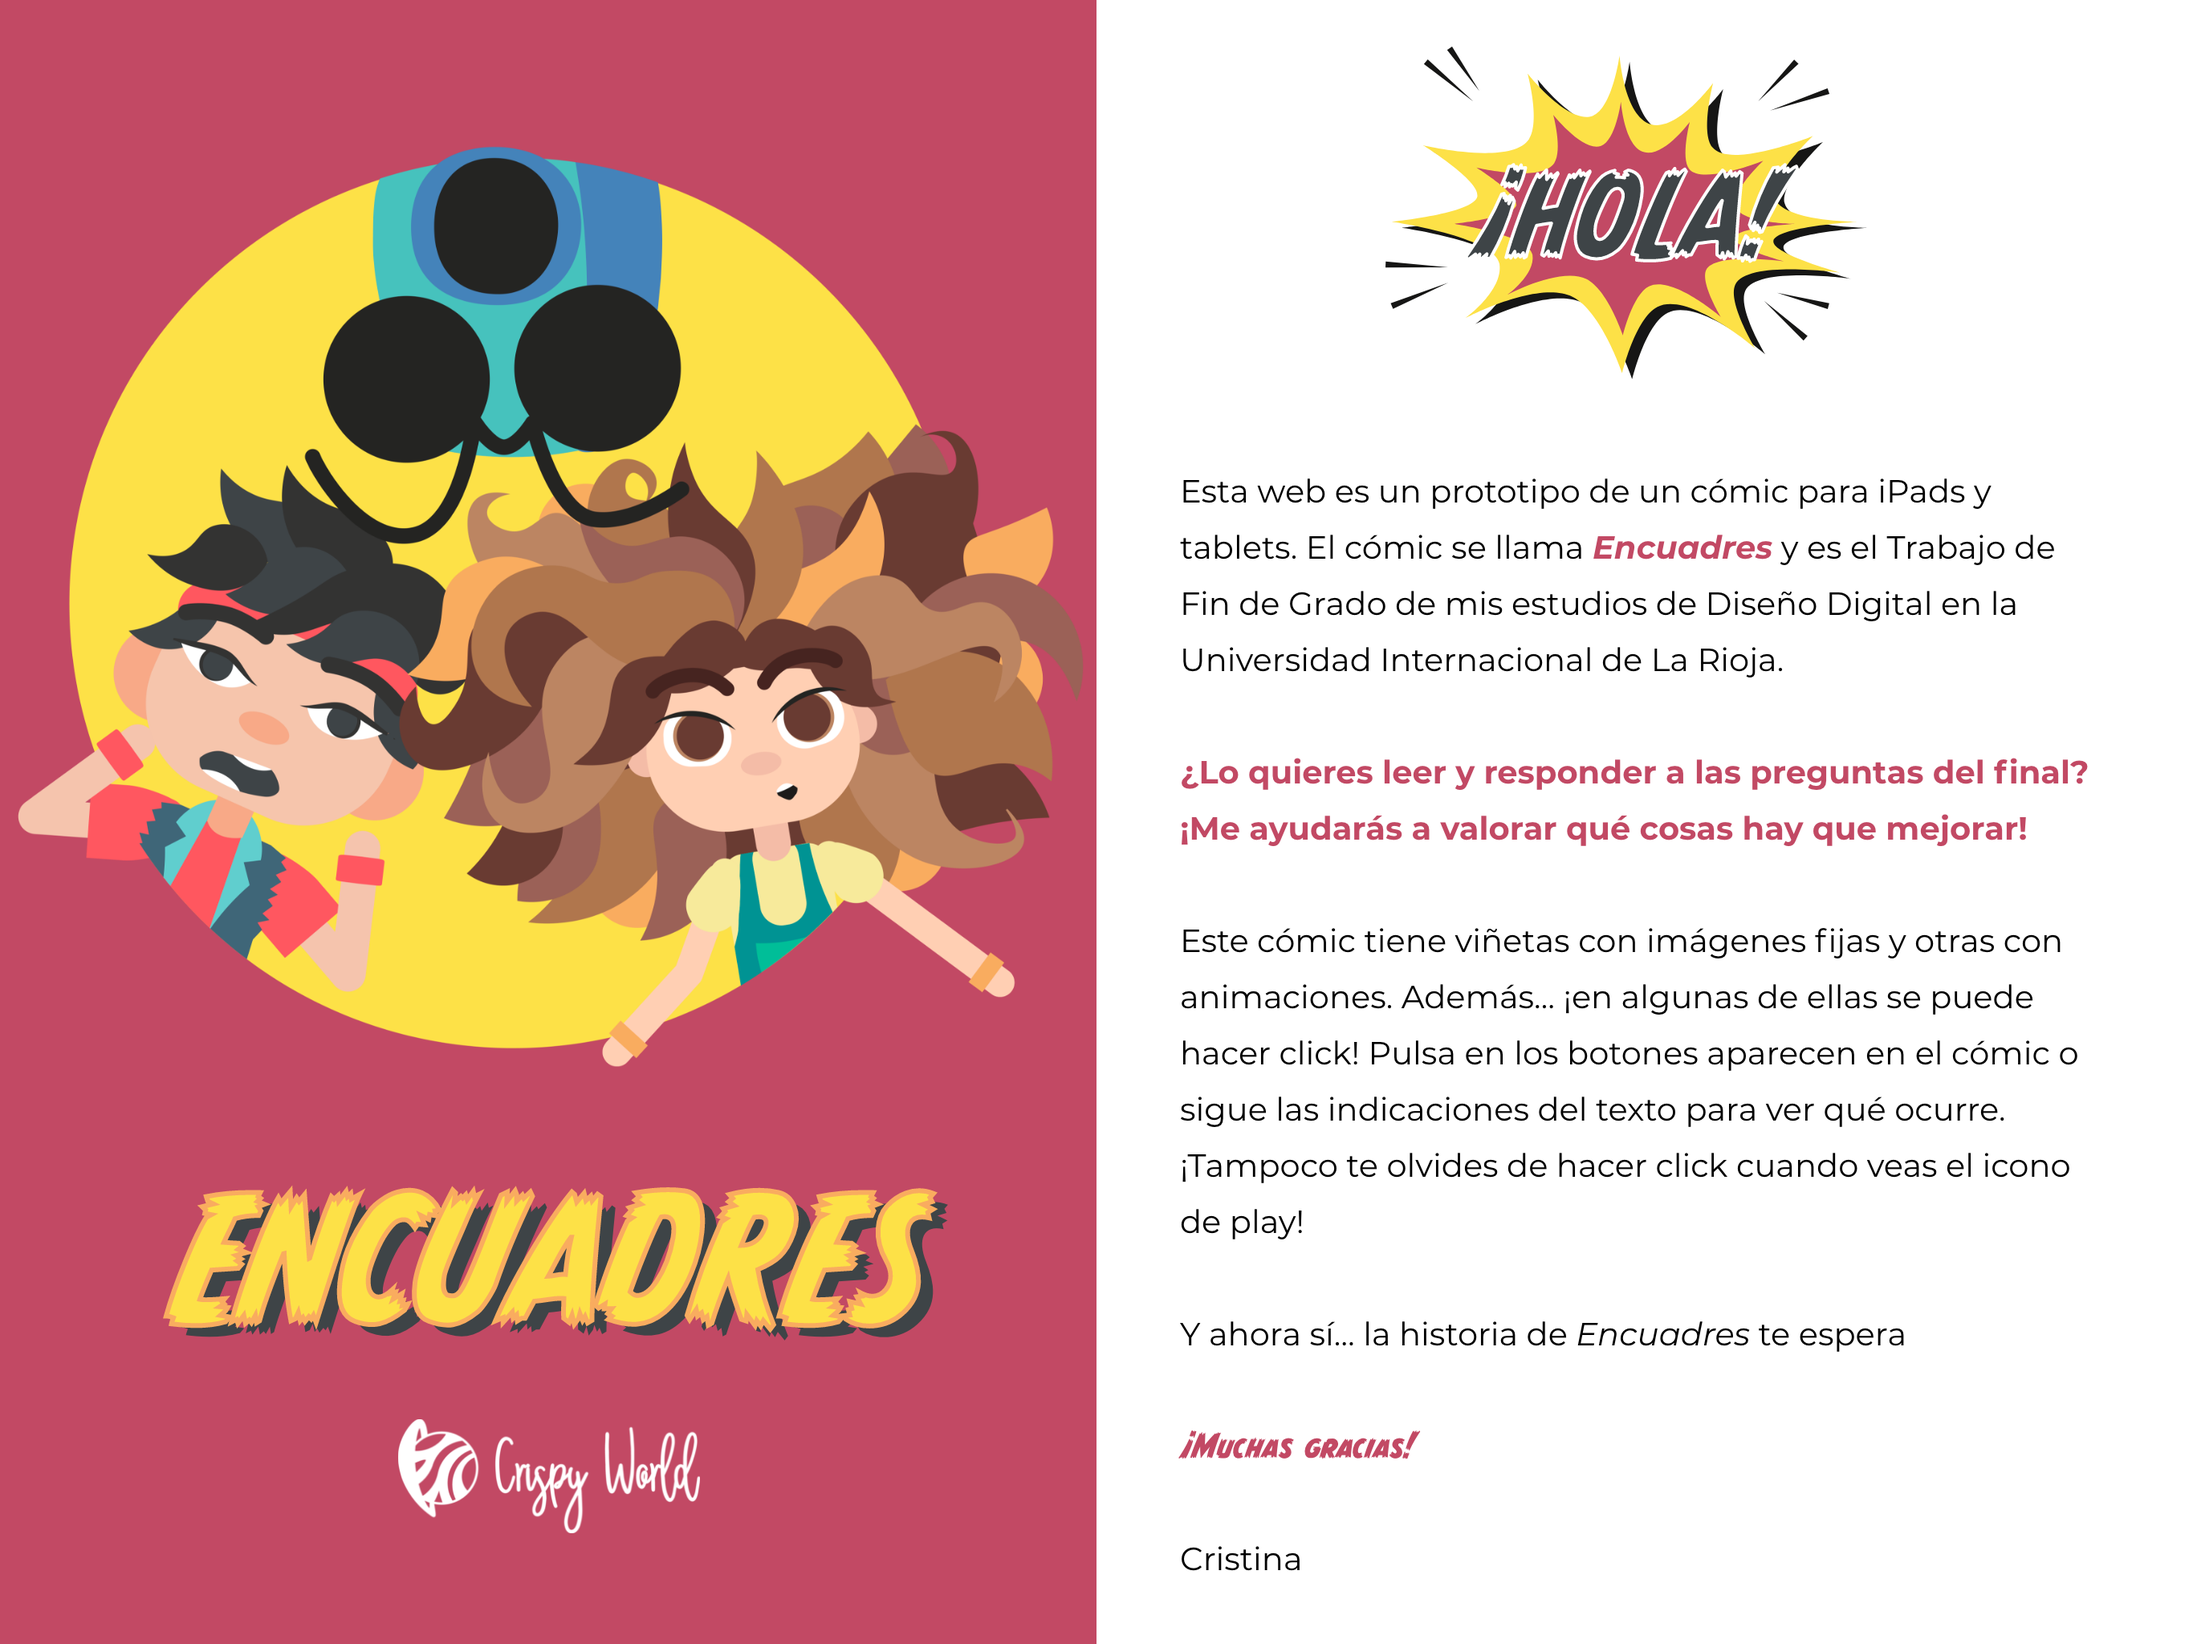
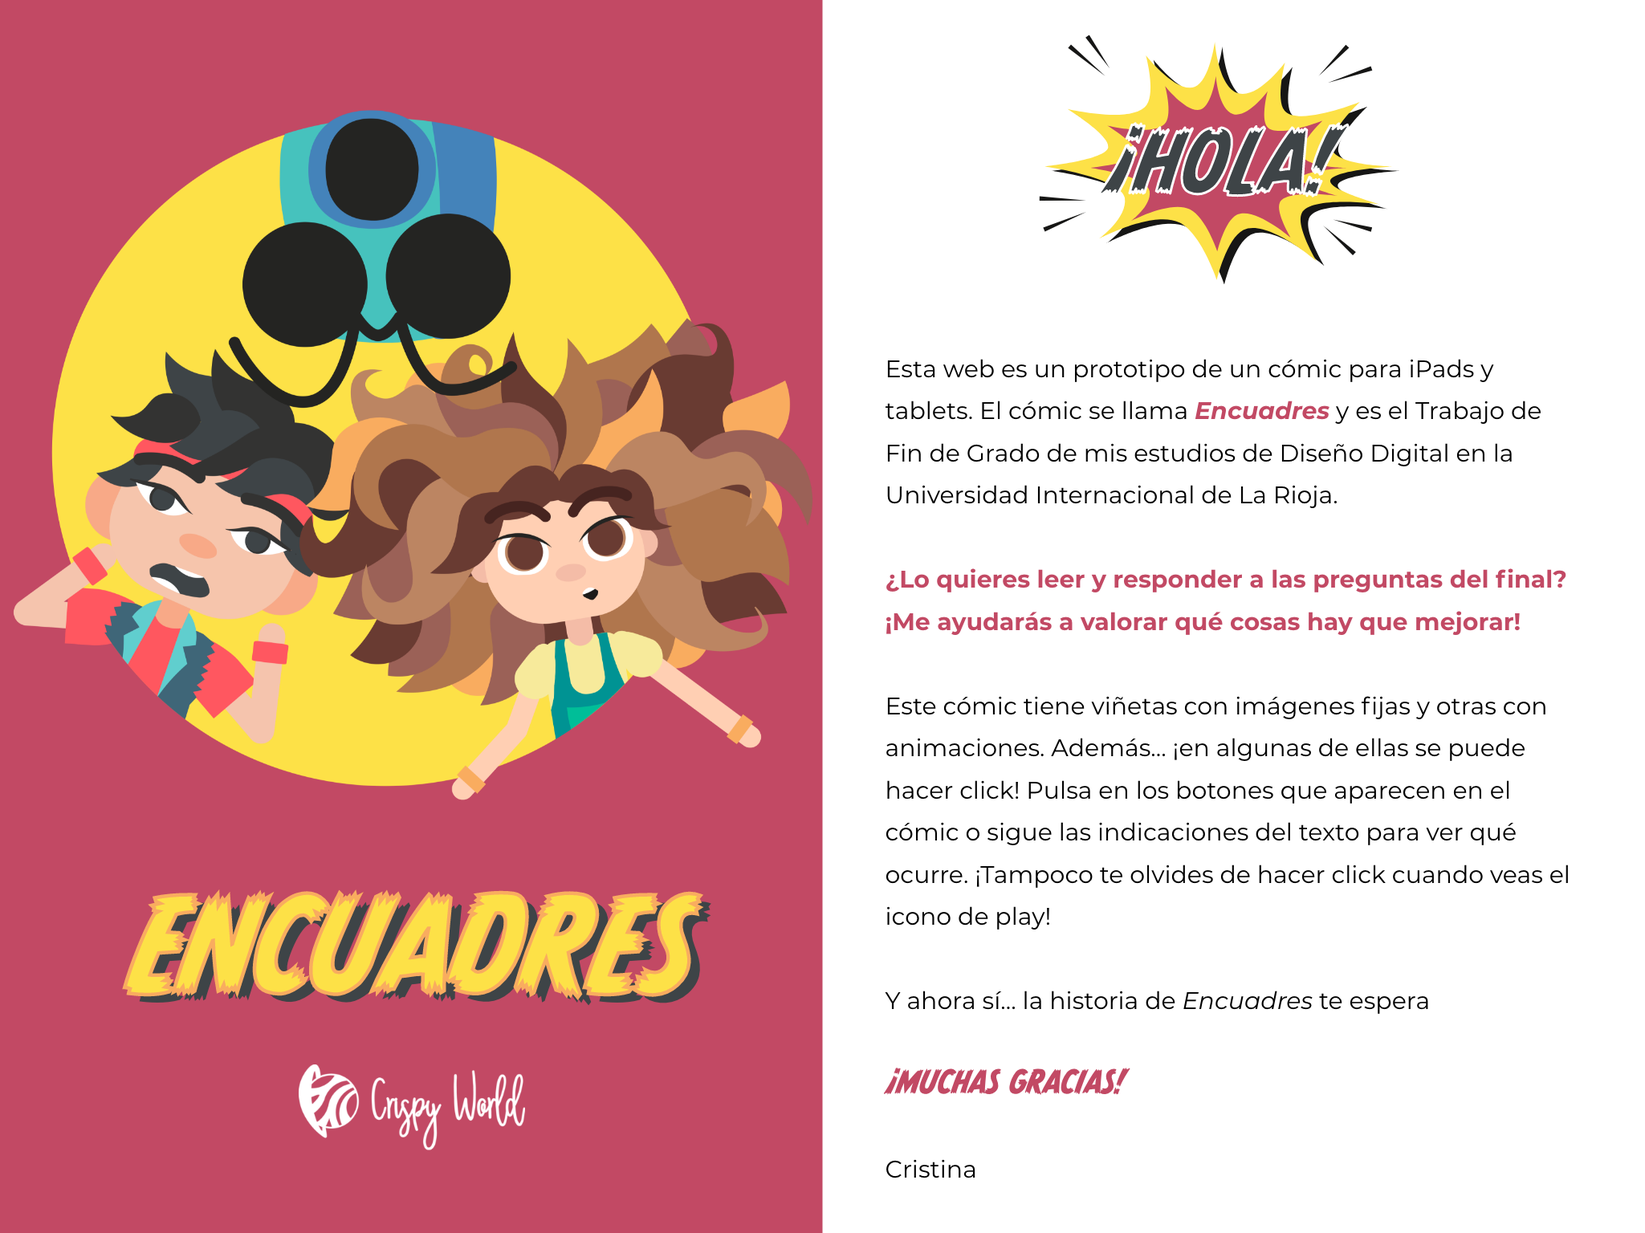
Correcciones teja y arbol flotante

diff --git a/src/components/Camera.vue b/src/components/Camera.vue
@@ -67,19 +67,6 @@ export default defineComponent({
     }
   },
   computed: {
-    // polaroid(): string {
-    //   if (this.modoPensamientos) {
-    //     if (this.chuckSelected) {
-    //       return chuckPensamientoURL;
-    //     } else {
-    //       return chuckPensamientoURL;
-    //     }
-    //   }
-    //   else {
-    //     return chuckPensamientoURL;
-    //   }
-      
-    // },
     chuckClass(): string {
       if (this.chuckSelected) {
         return "active";
@@ -370,7 +357,7 @@ export default defineComponent({
 
 #pagination {
   position: absolute;
-  transform: translateY(210%);
+  transform: translateY(180%);
   right: 50px;
   z-index: 6;
   width: 100%
@@ -460,6 +447,6 @@ export default defineComponent({
   text-align: right;
   font-size: 13px;
   right: 25px;
-  top: 300px;
+  top: 250px;
 }
 </style>

diff --git a/src/components/Polaroids.vue b/src/components/Polaroids.vue
@@ -103,7 +103,7 @@ export default defineComponent({
 .texto-superior {
   color: white;
   font-family: "ComicBook";
-  font-size: 30px;
+  font-size: 25px;
   text-shadow: 3px 3px 1px black;
   text-align: center;
   width: 100%;
@@ -114,7 +114,7 @@ export default defineComponent({
   color: white;
   font-size: 30px;
   position: absolute;
-  top: 750px;
+  top: 670px;
   text-align: center;
   width: 100%;
   text-shadow: 3px 3px 1px black;
@@ -178,7 +178,7 @@ body {
 .slider {
   width: 100%;
   height: 1024px;
-  margin-top: 50px;
+  margin-top: 10px;
   z-index: 1;
   position: absolute;
 }
